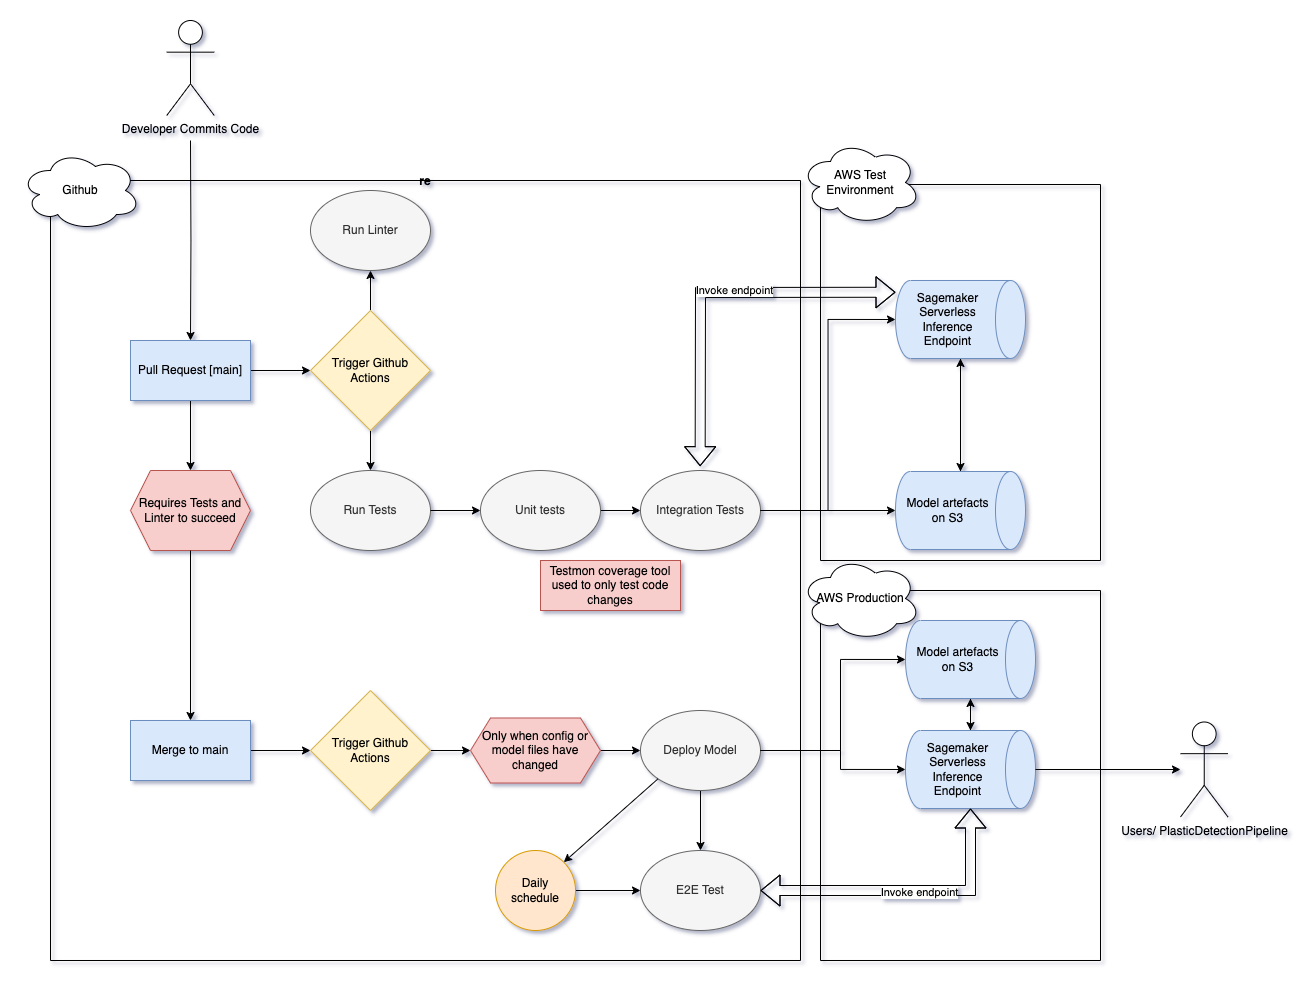
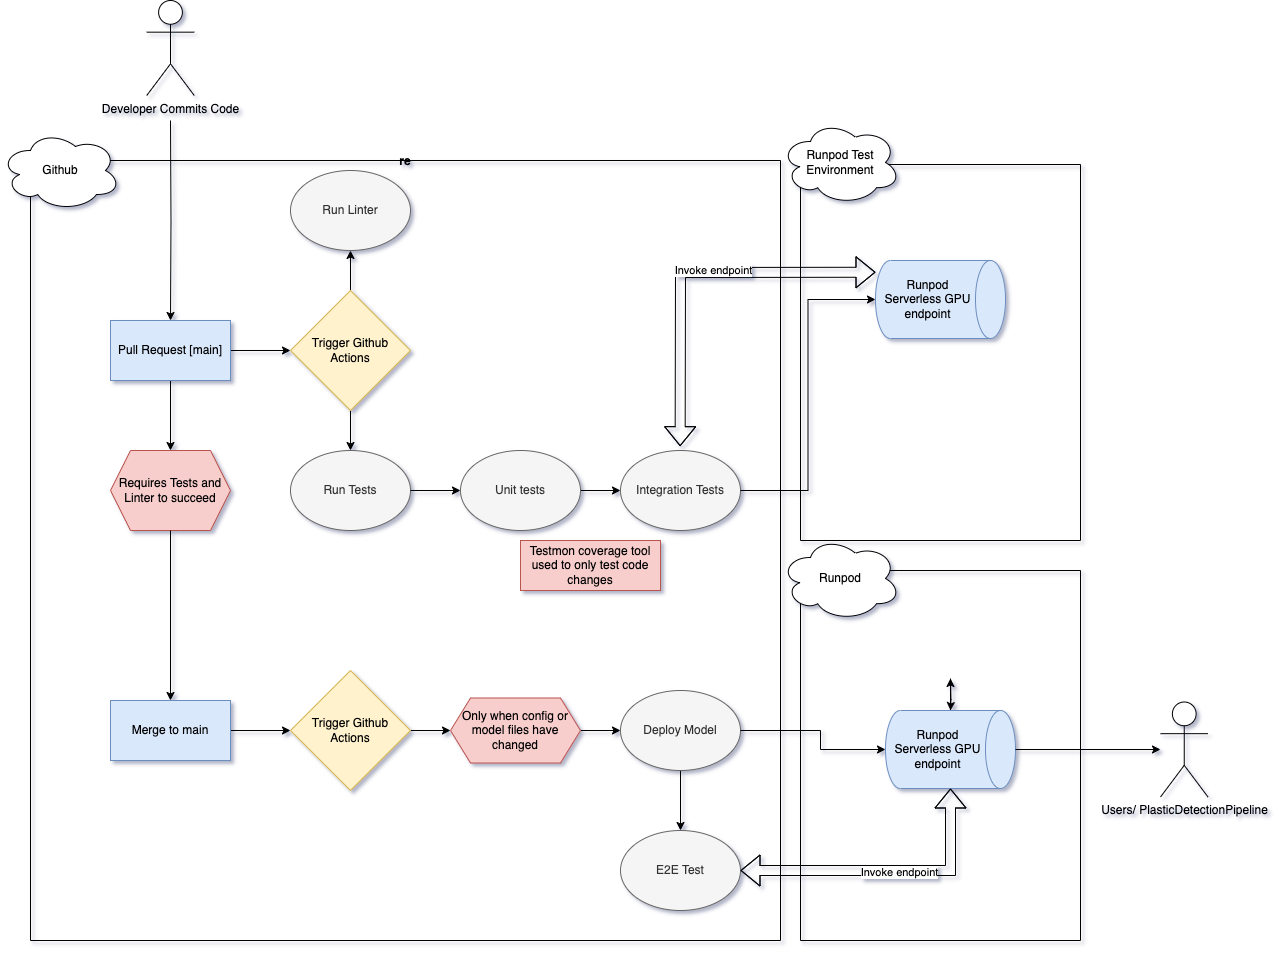
change ci diagram

diff --git a/tests/conftest.py b/tests/conftest.py
@@ -10,13 +10,6 @@ from src.marinedebrisdetector_mod.model.segmentation_model import SegmentationMo
 MSE_THRESHOLD = 0.01
 
 
-TEST_S3_BUCKET_NAME = "test-sagemaker-studio-768912473174-0ryazmj34j9"
-TEST_S3_FILENAME = "test-model.tar.gz"
-TEST_S3_IMAGE_NAME = "2400_1440.tiff"
-TEST_S3_MODEL_PATH = f"s3://{TEST_S3_BUCKET_NAME}/{TEST_S3_FILENAME}"
-TEST_S3_IMAGE_PATH = f"s3://{TEST_S3_BUCKET_NAME}/{TEST_S3_IMAGE_NAME}"
-
-
 @pytest.fixture
 def input_data():
     with open(
